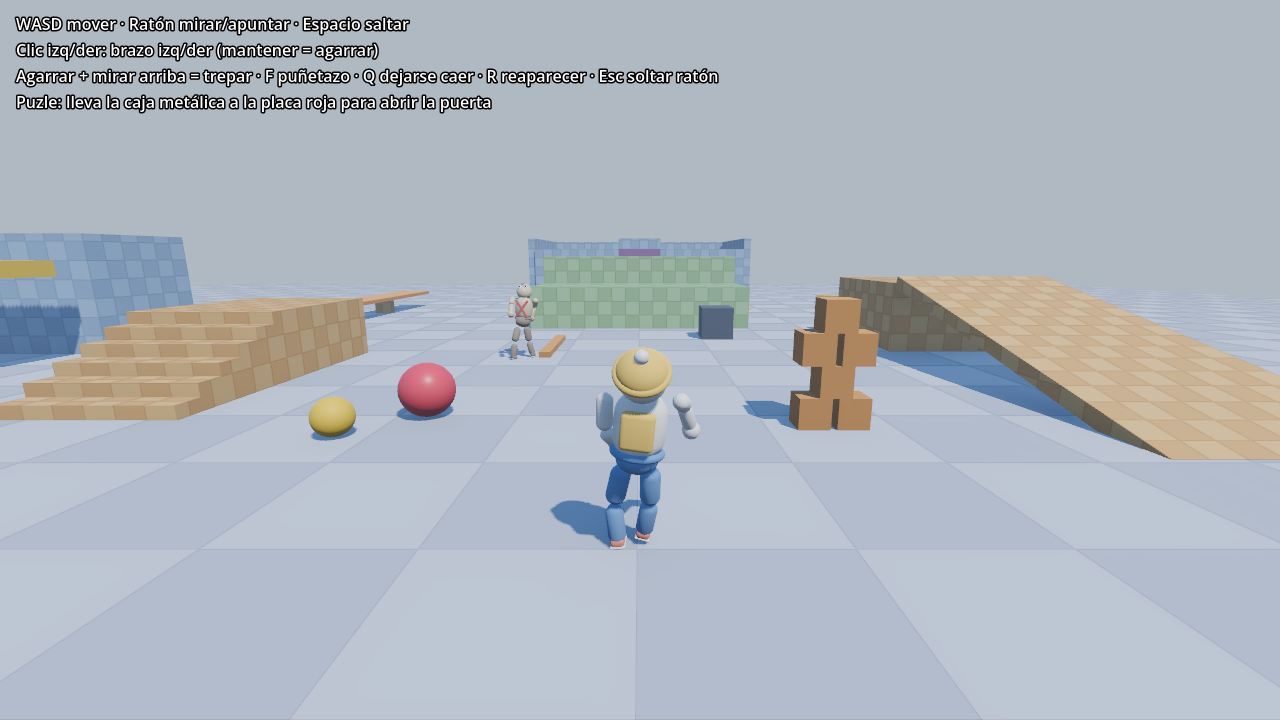
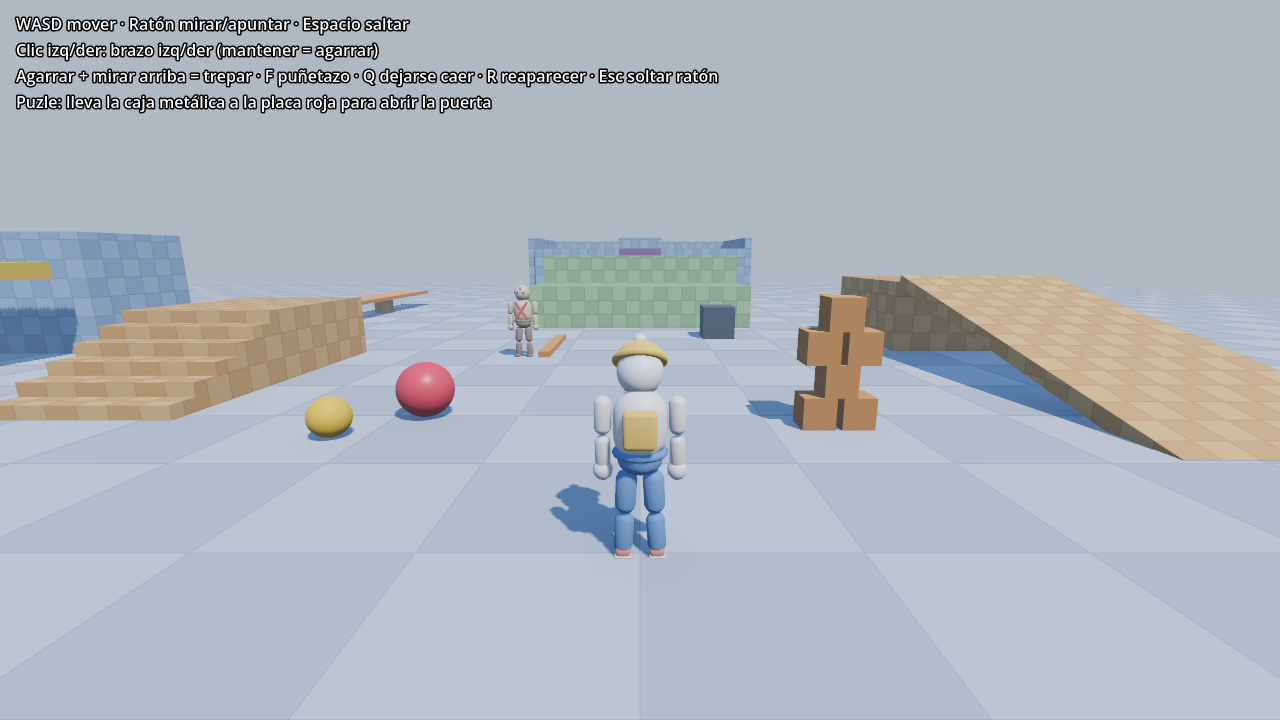
fix: estabilizar musculos del ragdoll y mejorar escalada
- limitar la amortiguacion muscular para que sea estable con dt=1/120:
  el torso/pelvis temblaba a 15-20 rad/s por amortiguacion explicita excesiva
- brazos: control solo de direccion (sin torsion) y sin reaccion antebrazo->brazo
- trepar: doblar el torso sobre el borde y empujar la cadera por encima
- prueba de brazos usa alineacion promedio; prueba de trepar apunta al borde
  y luego mira arriba (como en HFF)
- HUD y README con la tecnica de trepar

diff --git a/README.md b/README.md
@@ -19,7 +19,7 @@ con personajes modelados por script en **Blender**.
 | Mirar / apuntar brazos | Ratón | Stick der. |
 | Saltar | Espacio | A |
 | Brazo izq. / der. (mantener = agarrar) | Clic izq. / der. | LT / RT |
-| Trepar | Levantar brazos mirando arriba, caminar al muro, mantener agarrado + W; soltar arriba | |
+| Trepar | Apunta al borde y agarra, luego mira arriba + W; suelta al estar arriba | |
 | Puñetazo | F | X |
 | Dejarse caer (flácido) | Q | B |
 | Reaparecer | R | Back |
@@ -40,7 +40,11 @@ con personajes modelados por script en **Blender**.
   brazo ya apunta hacia la mira (así no se agarra a media pared mientras sube), y una compensación de gravedad
   evita que los brazos extendidos se cuelguen.
 - **Trepar**: agarrado a algo fijo (o muy pesado) y mirando arriba, los brazos izan el cuerpo; empujando hacia
-  delante el pecho pasa por encima del borde. Ajustable con `climb_strength`, `climb_min_pitch`.
+  delante el torso se dobla sobre el borde y la cadera pasa por encima. Ajustable con `climb_strength`,
+  `climb_min_pitch`, `climb_min_anchor_mass`.
+- **Estabilidad**: toda amortiguación muscular se limita para no frenar más del 70 % del giro en un paso de
+  física (35 % sobre el cuerpo padre). Sin ese límite, piezas de poca inercia (giro vertical de pelvis/torso)
+  temblaban a 15–20 rad/s.
 - **Combate (Gang Beasts)**: puñetazo con impulso; un golpe fuerte en la cabeza (`knockout_speed`) deja KO
   durante `knockout_duration`: fuerza muscular = 0 → ragdoll flácido, y luego se levanta solo.
 - **NPC**: el mismo script con `player_controlled = false`. Con `ai_target_path` persigue y golpea al objetivo.
@@ -72,9 +76,11 @@ Los `.blend` resultantes quedan en `art_source/` (con `.gdignore` para que Godot
 
 ## Pruebas automáticas
 
-- `tests/test_ragdoll.tscn`: estar de pie, caminar, saltar, KO + recuperación, levantar brazos, agarrar y
+- `tests/test_ragdoll.tscn`: estar de pie, caminar, saltar, KO + recuperación, levantar brazos (alineación
+  promedio con la mira), agarrar y
   arrastrar la caja, y soltar.
-- `tests/test_climb.tscn`: levantar brazos, agarrar el borde de la repisa de 1,5 m, izarse y quedar de pie arriba.
+- `tests/test_climb.tscn`: apuntar al borde de la repisa de 1,5 m, agarrarlo, mirar arriba, izarse, pasar el
+  borde y quedar de pie arriba.
 
 ```bash
 godot --headless res://tests/test_ragdoll.tscn
